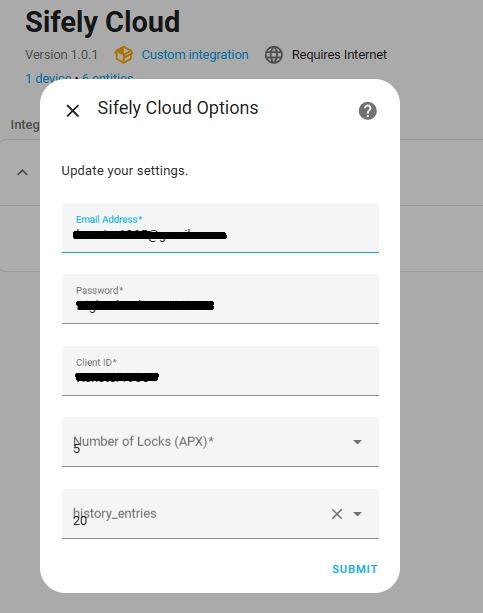
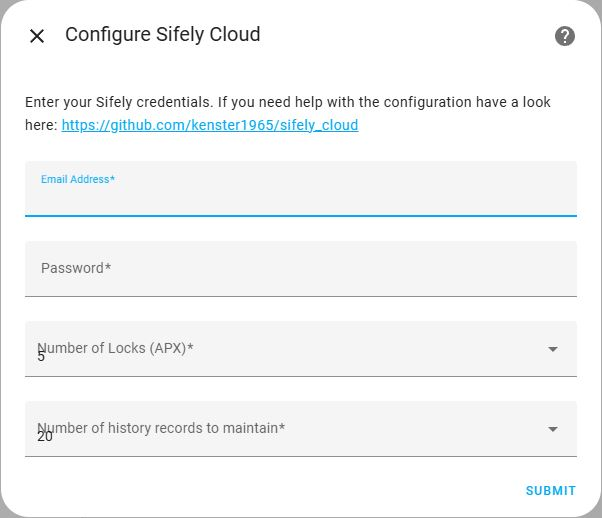
Update Flow and readme

diff --git a/custom_components/sifely_cloud/config_flow.py b/custom_components/sifely_cloud/config_flow.py
@@ -1,8 +1,11 @@
 import logging
+import aiohttp
+import hashlib
+import voluptuous as vol
+
 from homeassistant import config_entries
 from homeassistant.core import callback
 from homeassistant.data_entry_flow import FlowResult
-import voluptuous as vol
 
 from .const import (
     DOMAIN,
@@ -11,13 +14,14 @@ from .const import (
     CONF_CLIENT_ID,
     CONF_APX_NUM_LOCKS,
     CONF_HISTORY_ENTRIES,
+    LOGIN_ENDPOINT,
 )
 
 _LOGGER = logging.getLogger(__name__)
 
 
 class SifelyCloudConfigFlow(config_entries.ConfigFlow, domain=DOMAIN):
-    """Handle a config flow for Sifely Cloud."""
+    """Handle a config flow for Sifely Cloud along with finding client_id."""
 
     VERSION = 1
 
@@ -28,14 +32,54 @@ class SifelyCloudConfigFlow(config_entries.ConfigFlow, domain=DOMAIN):
             return self.async_abort(reason="single_instance_allowed")
 
         if user_input is not None:
-            # Validate and create entry
-            return self.async_create_entry(
-                title=user_input[CONF_EMAIL],
-                data={},
-                options=user_input,
-            )
+            email = user_input[CONF_EMAIL]
+            raw_password = user_input[CONF_PASSWORD]
+            md5_password = hashlib.md5(raw_password.encode()).hexdigest()
+            _LOGGER.debug("🔐 Attempting login with email: %s", email, " | MD5: %s", md5_password)
+            
+            # Attempt to fetch client_id from Sifely using username and password
+            try:
+                async with aiohttp.ClientSession() as session:
+                    data = {"username": email, "password": md5_password}
+                    header = {"Content-Type": "application/x-www-form-urlencoded"}
+                    async with session.post(
+                        LOGIN_ENDPOINT,
+                        headers=header,
+                        data = data
+                    ) as response:
+                        _LOGGER.debug("Sifely login response: %s", response)
+                        if response.status == 500:
+                            errors["base"] = "bad_username"
+                            return await self._show_form(user_input, errors)
+                        elif response.status == 401:
+                            errors["base"] = "bad_password"
+                            return await self._show_form(user_input, errors)
+                        elif response.status != 200:
+                            errors["base"] = "unknown_error"
+                            return await self._show_form(user_input, errors)
 
+                        data = await response.json()
+                        client_id = data["data"]["clientId"]
+
+            except Exception as e:
+                _LOGGER.exception("Error during login request: %s", e)
+                errors["base"] = "connection_error"
+                return await self._show_form(user_input, errors)
+
+            # Store clientId in options
+            return self.async_create_entry(
+                title=email,
+                data={},
+                options={
+                    CONF_EMAIL: email,
+                    CONF_PASSWORD: raw_password,
+                    CONF_CLIENT_ID: client_id,
+                    CONF_APX_NUM_LOCKS: user_input[CONF_APX_NUM_LOCKS],
+                    CONF_HISTORY_ENTRIES: user_input.get(CONF_HISTORY_ENTRIES, 20),
+                },
+            )
         return await self._show_form(user_input={}, errors=errors)
+
 
     async def _show_form(self, user_input, errors) -> FlowResult:
         return self.async_show_form(
@@ -43,9 +87,8 @@ class SifelyCloudConfigFlow(config_entries.ConfigFlow, domain=DOMAIN):
             data_schema=vol.Schema({
                 vol.Required(CONF_EMAIL, default=user_input.get(CONF_EMAIL, "")): str,
                 vol.Required(CONF_PASSWORD, default=user_input.get(CONF_PASSWORD, "")): str,
-                vol.Required(CONF_CLIENT_ID, default=user_input.get(CONF_CLIENT_ID, "")): str,
                 vol.Required(CONF_APX_NUM_LOCKS, default=user_input.get(CONF_APX_NUM_LOCKS, 5)): vol.In([5, 10, 15, 20, 25, 30, 35, 40, 45, 50]),
-                vol.Optional(CONF_HISTORY_ENTRIES, default=user_input.get(CONF_HISTORY_ENTRIES, 20)): vol.In([10, 20, 30, 40,  50, 60, 70, 80, 90, 100]),
+                vol.Required(CONF_HISTORY_ENTRIES, default=user_input.get(CONF_HISTORY_ENTRIES, 20)): vol.In([10, 20, 30, 40, 50, 60, 70, 80, 90, 100]),
             }),
             errors=errors
         )
@@ -82,8 +125,7 @@ class SifelyCloudOptionsFlowHandler(config_entries.OptionsFlow):
                 vol.Required(CONF_EMAIL, default=default(CONF_EMAIL)): str,
                 vol.Required(CONF_PASSWORD, default=default(CONF_PASSWORD)): str,
                 vol.Required(CONF_CLIENT_ID, default=default(CONF_CLIENT_ID)): str,
-                vol.Required(CONF_APX_NUM_LOCKS, default=default(CONF_APX_NUM_LOCKS, 5)): vol.In([5, 10, 15, 20, 25, 30, 35, 40, 45, 50]),
-                vol.Optional(CONF_HISTORY_ENTRIES, default=default(CONF_HISTORY_ENTRIES, 20)): vol.In([10, 20, 30, 40,  50, 60, 70, 80, 90, 100]),
+                vol.Required(CONF_APX_NUM_LOCKS, default=default(CONF_APX_NUM_LOCKS, '5' )): vol.In([5, 10, 15, 20, 25, 30, 35, 40, 45, 50]),
+                vol.Required(CONF_HISTORY_ENTRIES, default=default(CONF_HISTORY_ENTRIES, '20')): vol.In([10, 20, 30, 40, 50, 60, 70, 80, 90, 100]),
             }),
         )
-

diff --git a/custom_components/sifely_cloud/const.py b/custom_components/sifely_cloud/const.py
@@ -9,7 +9,7 @@ ENTITY_PREFIX = "sifely" # Prefix for entity names
 VERSION = "1.0.3"
 ISSUE_URL = "https://github.com/kenster1965/sifely_cloud/issues"
 
-CONF_EMAIL = "User_Email"#
+CONF_EMAIL = "User_Email"
 CONF_PASSWORD = "User_Password"
 CONF_CLIENT_ID = "clientId"
 CONF_APX_NUM_LOCKS = "apxNumLocks" # Approximate number of locks
@@ -30,6 +30,7 @@ TOKEN_401s_BEFORE_ALERT = 10  # Number of 401 errors before alerting user
 
 # API endpoints
 API_BASE_URL = "https://app-smart-server.sifely.com"
+LOGIN_ENDPOINT = f"{API_BASE_URL}/system/smart/loginByGuest"
 TOKEN_ENDPOINT = f"{API_BASE_URL}/system/smart/login"
 REFRESH_ENDPOINT = f"{API_BASE_URL}/system/smart/oauthToken"
 KEYLIST_ENDPOINT = f"{API_BASE_URL}/v3/key/list"

diff --git a/README.md b/README.md
@@ -52,7 +52,8 @@ Below are examples of how entities appear in the Home Assistant UI. These includ
 - Lock Control, Battery, Privacy Lock, Tamper Alert sensors, ...  
   <img src="images/panel.jpg" alt="panel" width="300px">  
   <img src="images/show_locked.jpg" alt="show_locked" width="300px">
-  <img src="images/logbook.jpg" alt="logbook" width="300px">
+  <img src="images/logbook.jpg" alt="logbook" width="300px">  
+  <img src="images/diagnostic_sensor.jpg" alt="diagnostic_sensor" width="300px">
 
 - Lock history sensor with structured entries  
   <img src="images/history.jpg" alt="history" width="300px">
@@ -79,11 +80,8 @@ Below are examples of how entities appear in the Home Assistant UI. These includ
 
 ## 🛠 Configuration Options
 - **Email / Password** – Your Sifely cloud account credentials
-- **Client ID** – A unique identifier used to access the Sifely API
-  - 📌 How to obtain your Client ID:
-  - Go to the Sifely Smart Manager Portal [https://app-smart-manager.sifely.com/Login.html](https://app-smart-manager.sifely.com/Login.html)
-  - Log in using your Sifely app username and password
-  - After logging in you will be shown your clientId (What you need) and a clientSecret (not needed)
+  - The system will find your ClientID.
+  - After integration is complete and you select Configure you will see your ClientId
 - **Number of Locks (APX)** – Approximate number of locks to query
 - **Number of History Entries** – Maximum recent events to retain (default: `20`)
 
